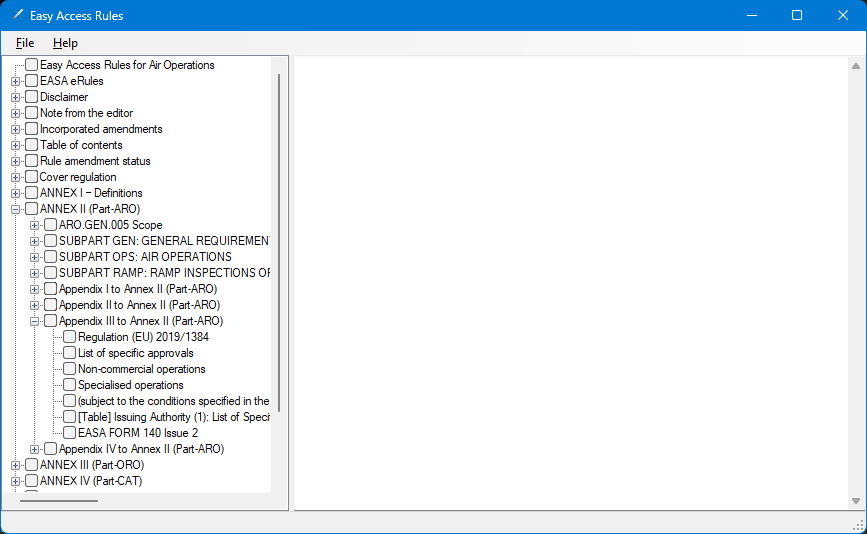
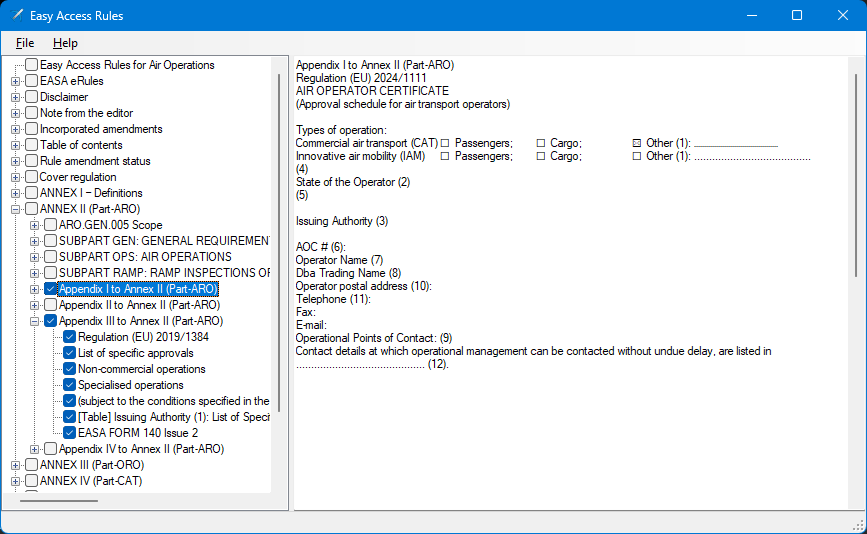
Screenshot.

diff --git a/README.md b/README.md
@@ -2,8 +2,12 @@
 
 This program allows you to select chapters from the Easy Access Rules for Air Operations from the European Authority for aviation safety (EASA).
 
-# How to use
+## How to use
 
 Download the XML version of the file **Easy Access Rules for Air Operations** from here (under **Publications**): [EASA Easy Access Rules for Air Operations](https://www.easa.europa.eu/en/document-library/easy-access-rules/easy-access-rules-air-operations)
 
 Load the file into the program and select the chapters you want to include in your output. The program will generate a new XML file containing only the selected chapters, that can be opened in Word.
+
+## Screenshot
+
+![Screenshot](https://github.com/Anders-H/EasyAccessRules/blob/main/screenshot_v1.png?raw=true "Screenshot")
